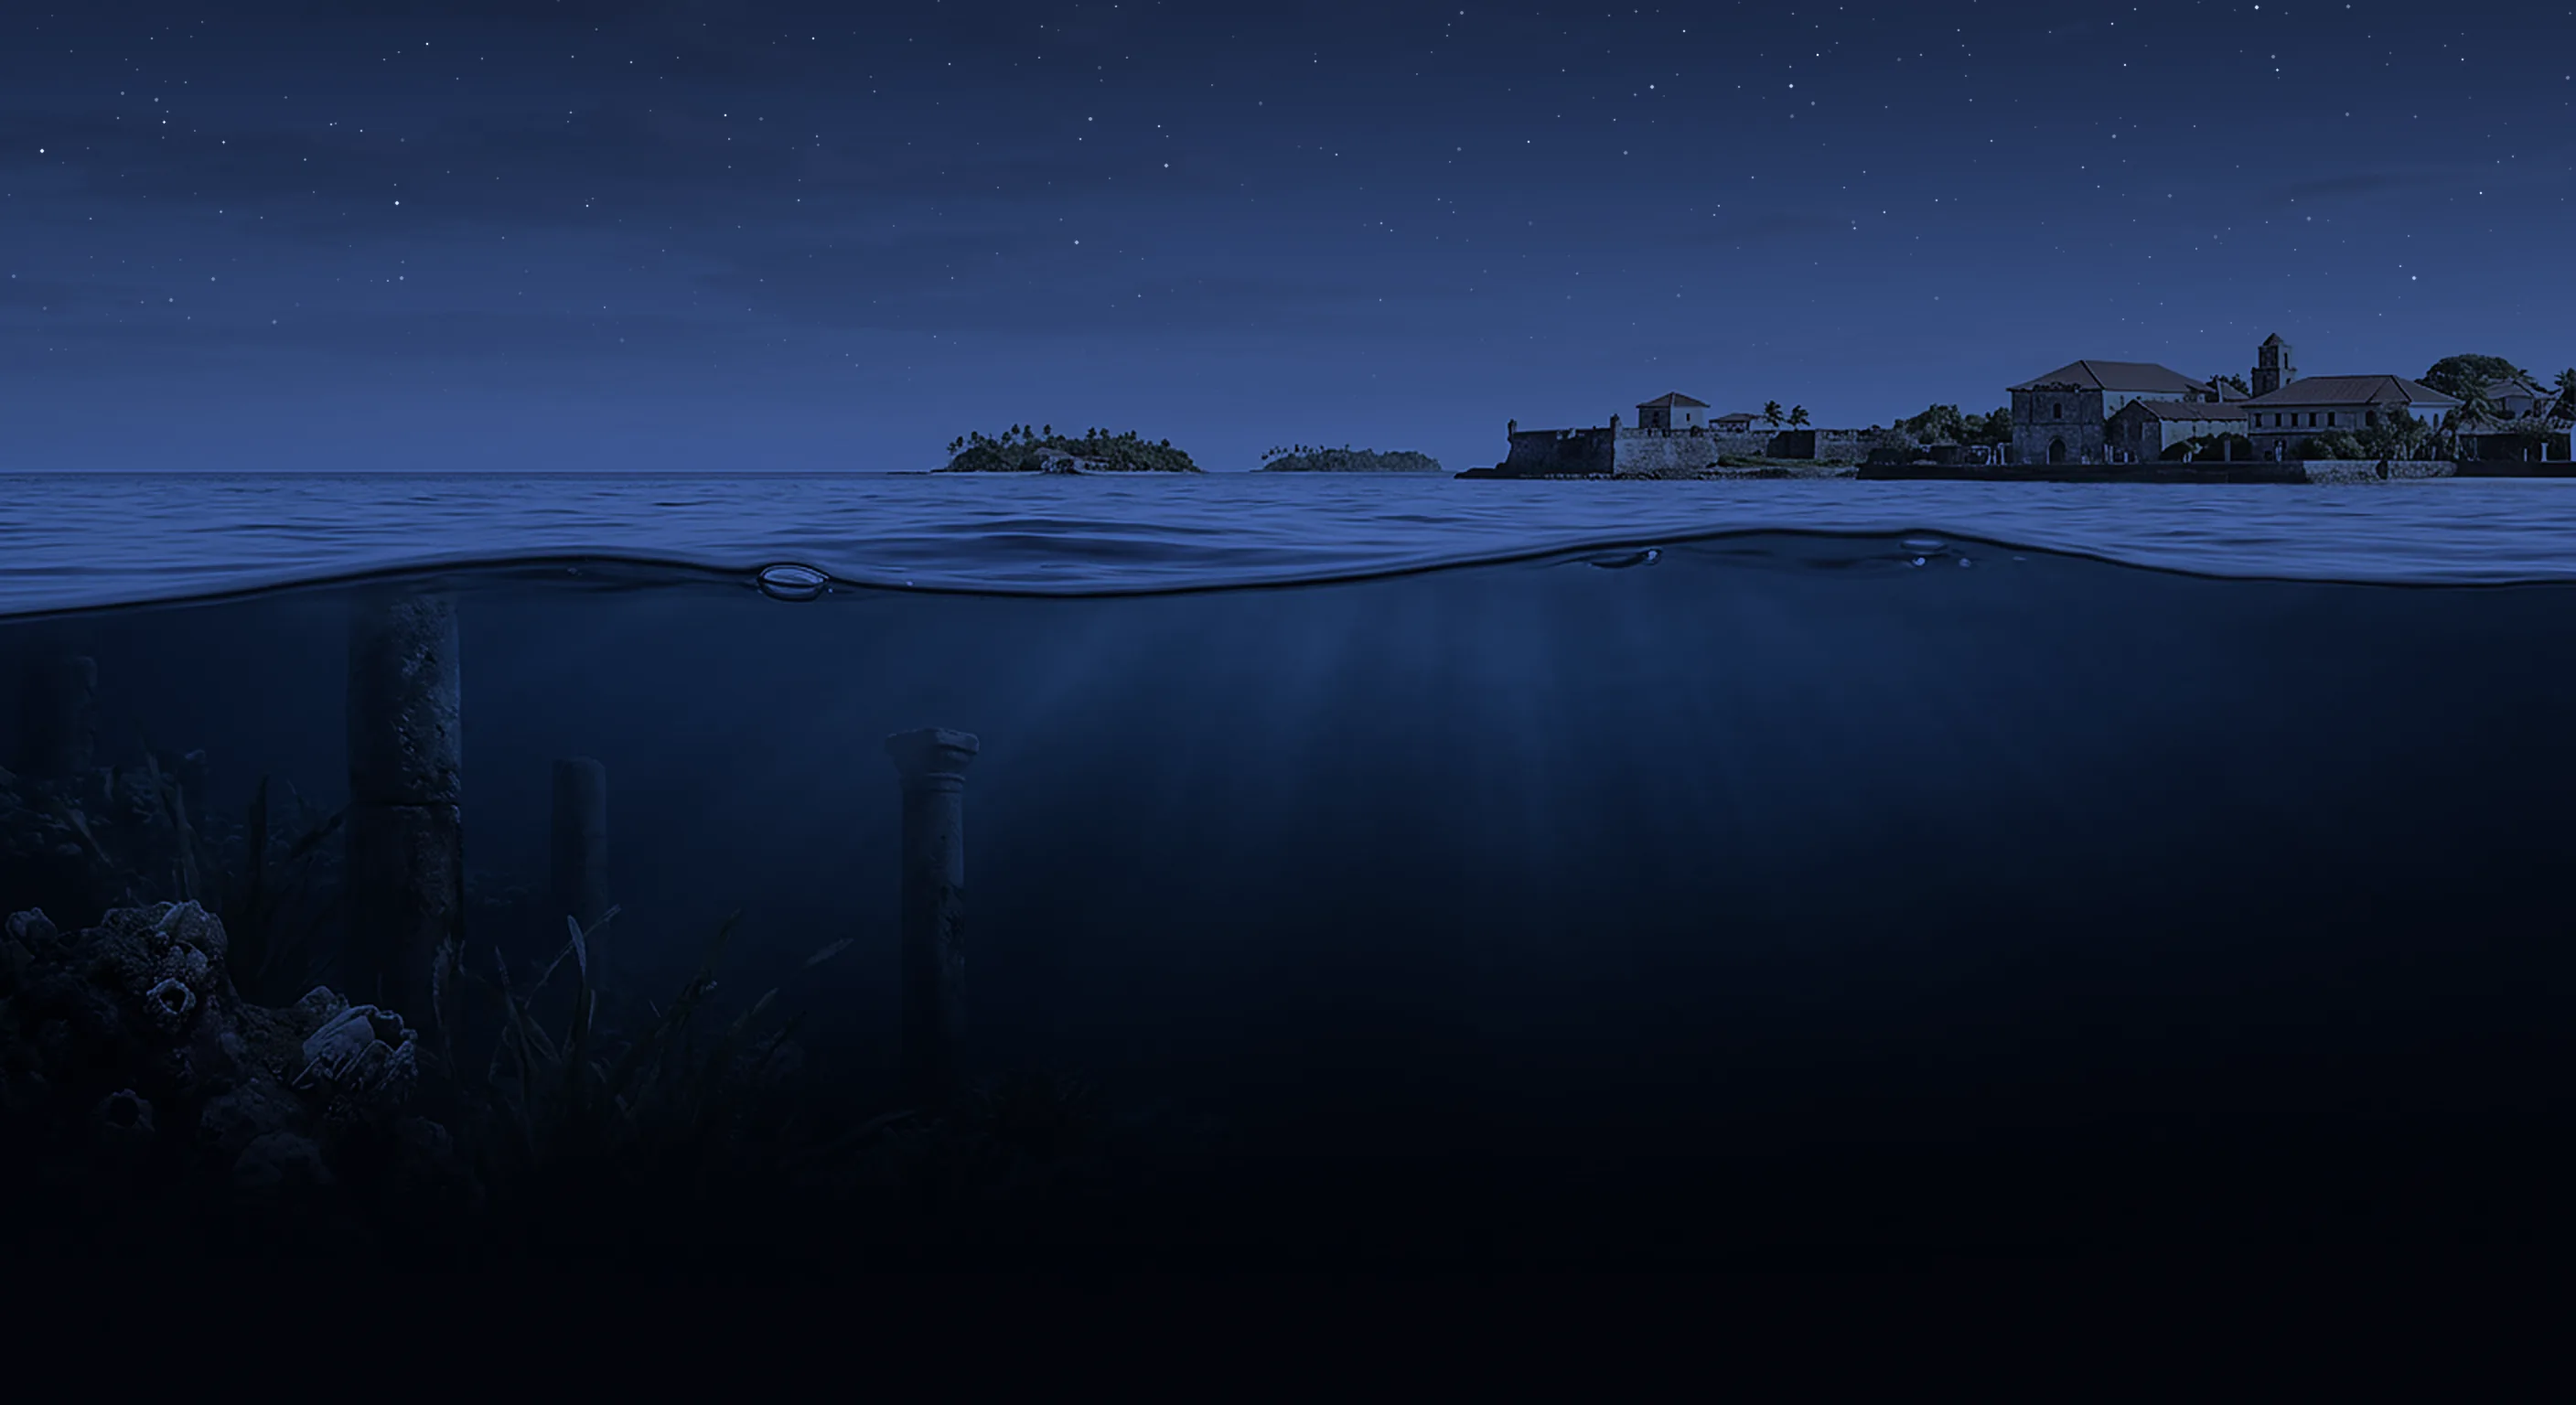
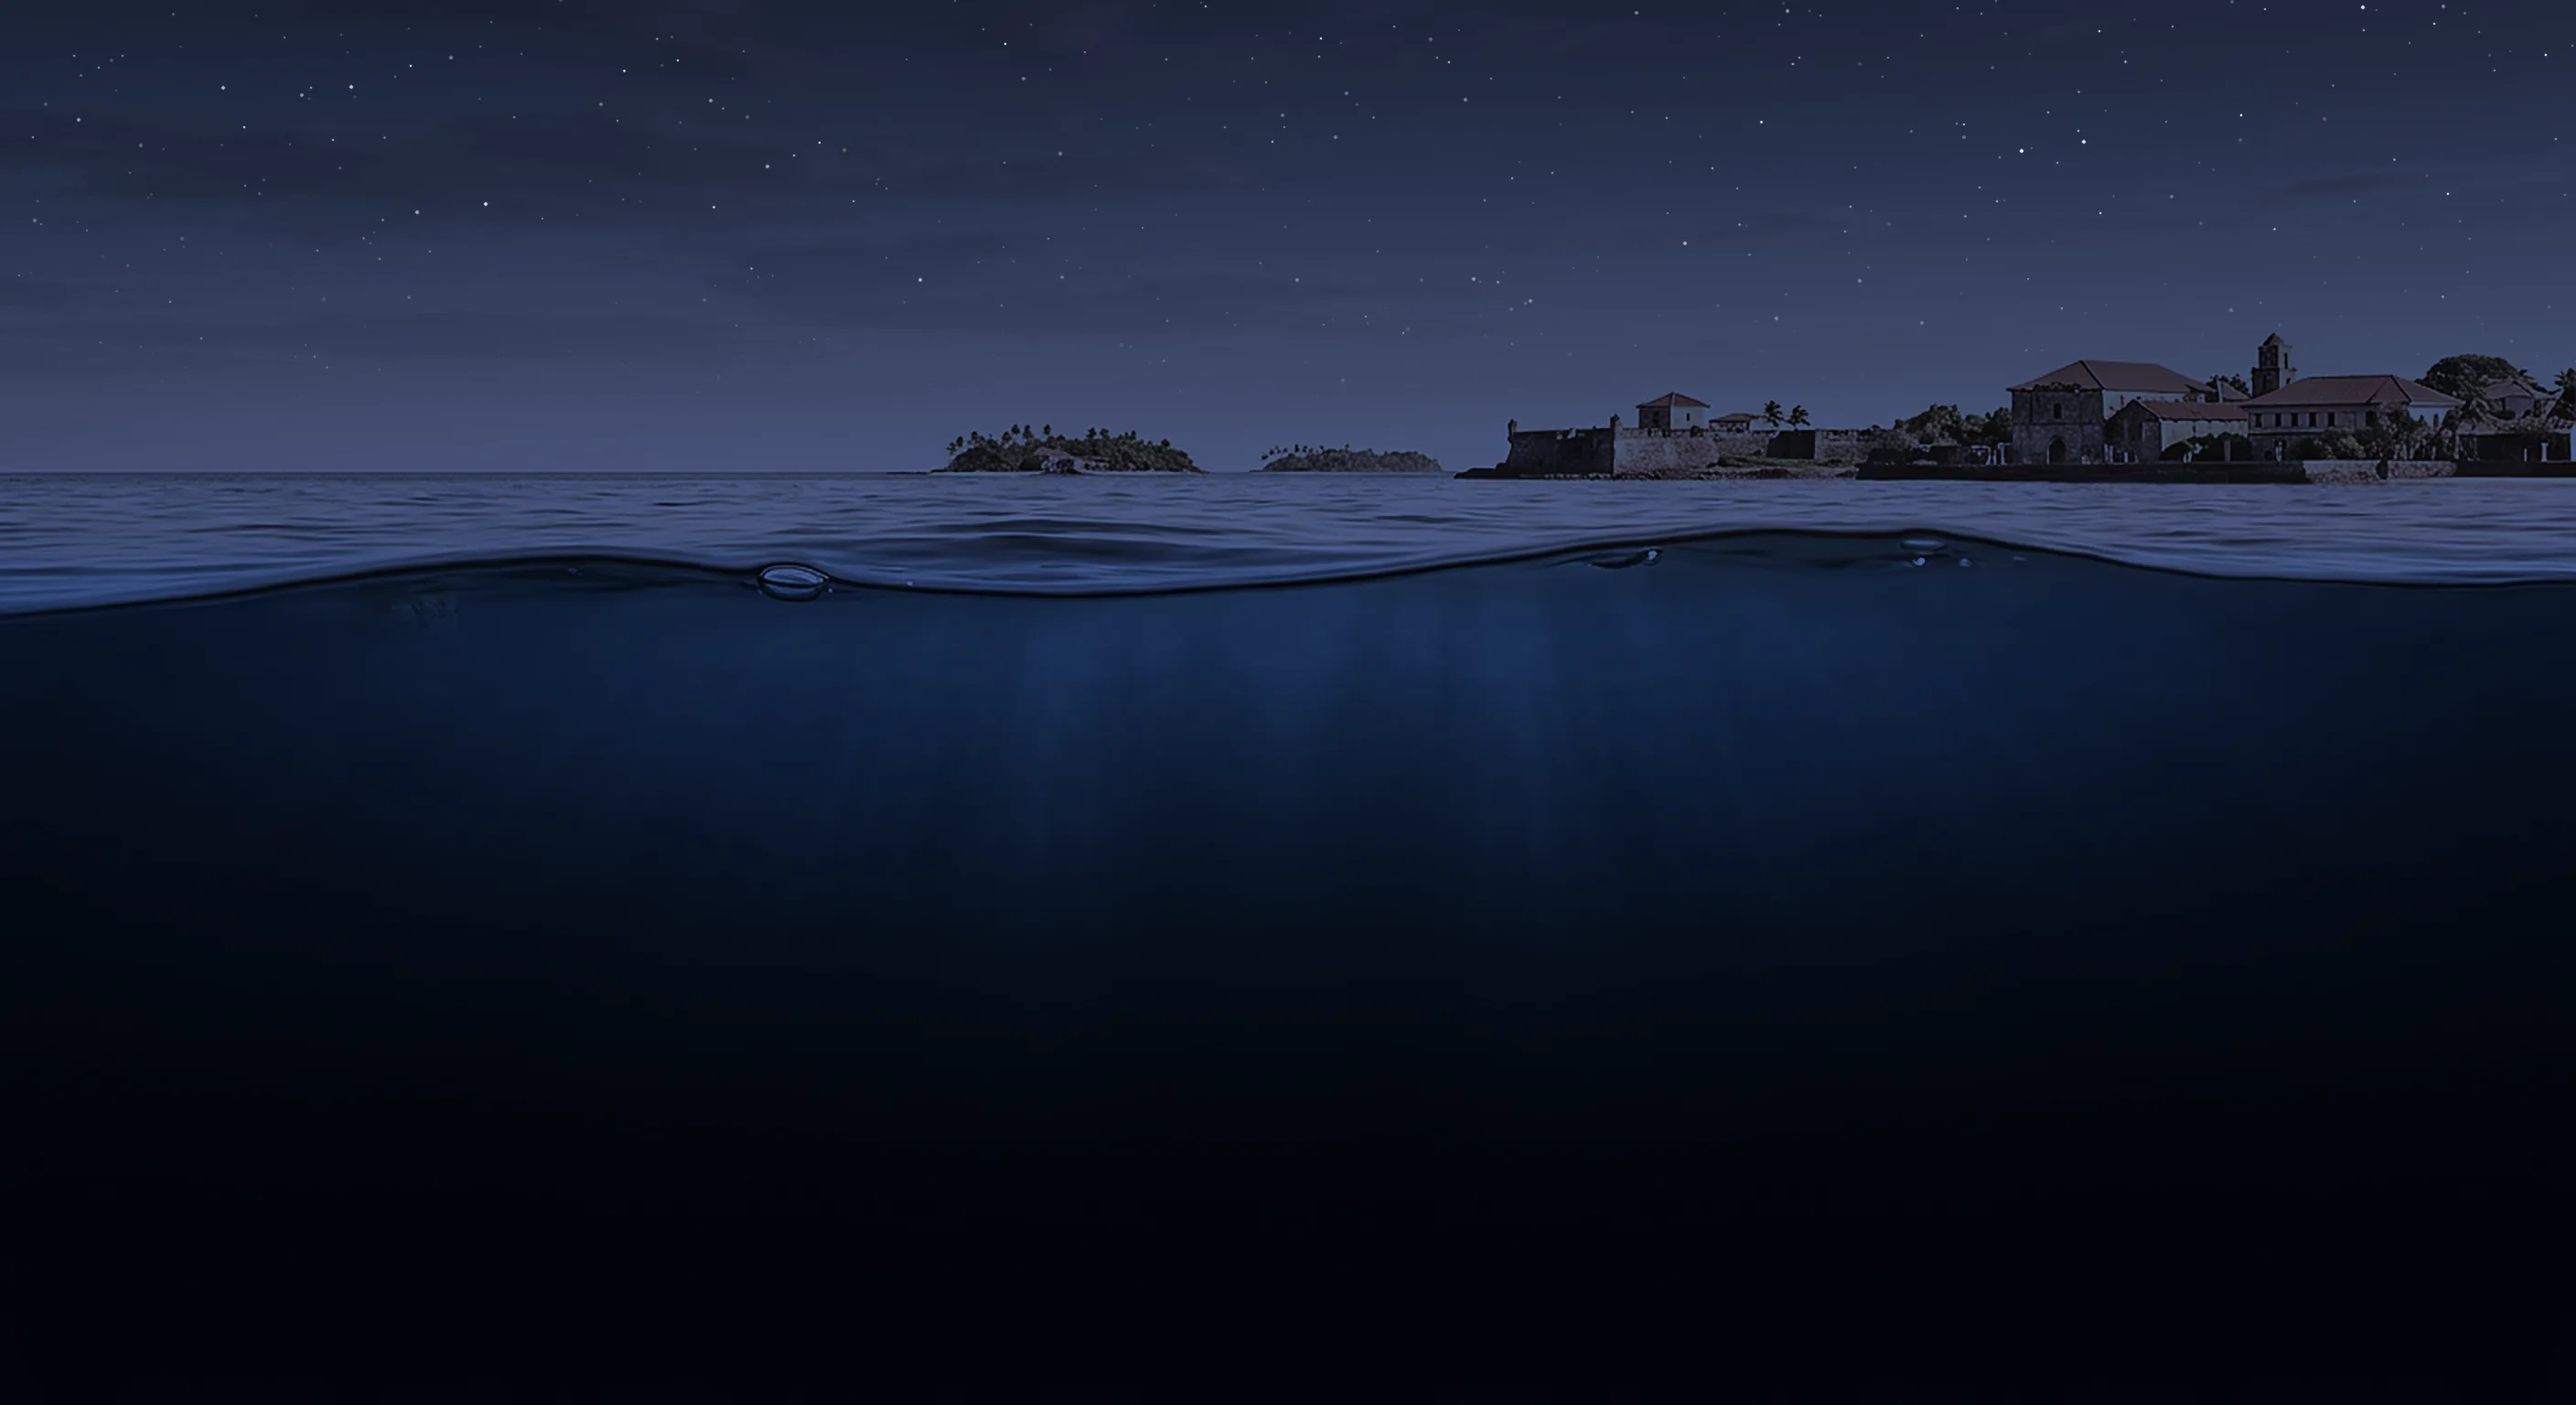
Reorder scenes into one day and fix About readability
The scenes now follow a single day: morning at Mayon, the terraces, afternoon in Vigan, sunset over Manila Bay, then the dive. The bay moved to just before the waterline, which is now in evening light and no longer shows a second seafloor. The About text sits on a panel so the map behind it does not get in the way.

diff --git a/index.html b/index.html
@@ -29,6 +29,7 @@
   --cream: #FBF3E4;
   --deep: #193456;
   --sea-top: #06182A;
+  --dusk: #EFA57C;
   --script: 'Kaushan Script', cursive;
 }
 :root[data-theme="dark"] {
@@ -41,6 +42,7 @@
   --accent: #F0C04A;
   --accent2: #5CC9BB;
   --sea-top: #030C18;
+  --dusk: #0A1124;
 }
 
 html { scroll-behavior: smooth; }
@@ -225,16 +227,17 @@ section { position: relative; }
 /* ABOUT */
 .about { display: grid; grid-template-columns: 250px 1fr; gap: 3.5rem; align-items: center; }
 .photo { width: 250px; height: 250px; border-radius: 50%; object-fit: cover; border: 5px solid var(--card); box-shadow: 0 0 0 3px var(--gold), 12px 12px 0 var(--coral); display: block; }
+.about > div { padding: 1.5rem 1.7rem; border: 1.5px solid var(--line); border-radius: 8px; background: color-mix(in srgb, var(--card) 90%, transparent); -webkit-backdrop-filter: blur(8px); backdrop-filter: blur(8px); box-shadow: 0 10px 30px rgba(29,56,99,0.08); }
 .bio p + p { margin-top: 0.9rem; }
-.bio { color: var(--ink2); font-size: 1rem; }
+.bio { color: var(--ink); font-size: 1rem; font-weight: 500; }
 .bio strong { color: var(--ink); font-weight: 600; }
 .facts { display: flex; flex-wrap: wrap; gap: 0.6rem; margin-top: 1.4rem; }
 .fact { font-size: 0.8rem; font-weight: 600; padding: 0.35rem 0.85rem; border: 1.5px solid var(--line); border-radius: 999px; background: var(--card); }
 .fact.open { border-color: var(--teal); color: var(--accent2); }
 .stats { display: grid; grid-template-columns: repeat(3, 1fr); gap: 1rem; margin-top: 3rem; text-align: center; }
-.stat { padding: 1.3rem 1rem; background: var(--card); border: 1.5px solid var(--line); border-radius: 6px; }
+.stat { padding: 1.3rem 1rem; background: color-mix(in srgb, var(--card) 92%, transparent); -webkit-backdrop-filter: blur(8px); backdrop-filter: blur(8px); border: 1.5px solid var(--line); border-radius: 6px; }
 .stat b { display: block; font-family: var(--script); font-weight: 400; font-size: 2.6rem; line-height: 1.1; color: var(--accent); }
-.stat span { font-size: 0.82rem; font-weight: 600; color: var(--ink3); }
+.stat span { font-size: 0.82rem; font-weight: 600; color: var(--ink2); }
 
 /* TECHNOLOGY */
 .tech { position: relative; display: grid; grid-template-columns: repeat(2, 1fr); gap: 1.2rem; }
@@ -277,9 +280,13 @@ section { position: relative; }
 .band::after { content: ''; position: absolute; inset: -1px 0; pointer-events: none; background: linear-gradient(180deg, var(--bg) 0%, transparent 16%, transparent 88%, var(--bg) 100%); transition: background 0.4s; }
 .bay-moon { position: absolute; left: 60%; top: 10%; width: clamp(38px, 5vw, 84px); filter: drop-shadow(0 0 14px rgba(226,234,255,0.7)) drop-shadow(0 0 44px rgba(170,190,255,0.4)); opacity: 0; transform: translateY(120%); transition: transform 2.2s cubic-bezier(0.25, 0.6, 0.3, 1), opacity 1.2s ease; }
 [data-theme="dark"] .bay-moon { opacity: 1; transform: none; transition-delay: 0.5s; }
-.waterline { aspect-ratio: 2816 / 1536; background: var(--sea-top); margin-top: 2rem; }
-.waterline .day, .waterline .night { top: -1.5%; height: 103%; object-position: 50% 50%; transform: none; animation: swell 7s ease-in-out infinite alternate; }
-.waterline::after { background: linear-gradient(180deg, var(--bg) 0%, transparent 13%, transparent 78%, var(--sea-top) 100%); }
+.band .cap { position: absolute; z-index: 2; left: clamp(1.25rem, 5vw, 4rem); bottom: 17%; color: #fff; font-family: var(--script); font-size: clamp(1.3rem, 2.6vw, 2rem); line-height: 1.2; text-shadow: 0 2px 16px rgba(4,12,30,0.8); }
+.band .cap small { display: block; font: 600 0.78rem 'Montserrat', sans-serif; letter-spacing: 0.08em; text-transform: uppercase; opacity: 0.92; }
+.bay { margin-top: 3rem; }
+.bay::after { background: linear-gradient(180deg, var(--bg) 0%, transparent 16%, transparent 80%, var(--dusk) 100%); transition: none; }
+.waterline { aspect-ratio: 2816 / 1250; background: var(--sea-top); }
+.waterline .day, .waterline .night { top: -1.5%; height: 103%; object-position: 50% 22%; transform: none; animation: swell 7s ease-in-out infinite alternate; }
+.waterline::after { background: linear-gradient(180deg, var(--dusk) 0%, transparent 12%, transparent 76%, var(--sea-top) 100%); transition: none; }
 .waterline .rays { position: absolute; left: 0; right: 0; top: 40%; bottom: 0; mix-blend-mode: screen; background: radial-gradient(45% 80% at 55% 0%, rgba(150,225,255,0.28), transparent 70%); animation: shimmer 7s ease-in-out infinite alternate; }
 @keyframes swell { from { transform: translateY(0); } to { transform: translateY(-1.1%); } }
 
@@ -471,12 +478,6 @@ footer small { font-size: 0.78rem; font-weight: 500; opacity: 0.8; }
   </div>
 </section>
 
-<div class="band bay" data-parallax aria-hidden="true">
-  <img class="day" src="assets/bay-day.webp" alt="" loading="lazy" width="2920" height="1238">
-  <img class="night" src="assets/bay-night.webp" alt="" loading="lazy" width="2920" height="1238">
-  <img class="bay-moon" src="assets/moon.webp" alt="" loading="lazy" width="384" height="384">
-</div>
-
 <section id="experience">
   <div class="sec-bg" aria-hidden="true"><i class="day"></i><i class="night"></i><i class="fog"></i></div>
   <div class="wrap">
@@ -513,6 +514,7 @@ footer small { font-size: 0.78rem; font-weight: 500; opacity: 0.8; }
 <div class="band street" data-parallax aria-hidden="true">
   <img class="day" src="assets/street-day.webp" alt="" loading="lazy" width="2920" height="1238">
   <img class="night" src="assets/street-night.webp" alt="" loading="lazy" width="2920" height="1238">
+  <span class="cap">Hapon <small>Afternoon in old Vigan</small></span>
 </div>
 
 <section id="projects">
@@ -586,6 +588,12 @@ footer small { font-size: 0.78rem; font-weight: 500; opacity: 0.8; }
   </div>
 </section>
 
+<div class="band bay" data-parallax aria-hidden="true">
+  <img class="day" src="assets/bay-day.webp" alt="" loading="lazy" width="2920" height="1238">
+  <img class="night" src="assets/bay-night.webp" alt="" loading="lazy" width="2920" height="1238">
+  <span class="cap">Takipsilim <small>Sunset over Manila Bay</small></span>
+  <img class="bay-moon" src="assets/moon.webp" alt="" loading="lazy" width="384" height="384">
+</div>
 <div class="band waterline" aria-hidden="true">
   <img class="day" src="assets/waterline-day.webp" alt="" loading="lazy" width="2816" height="1536">
   <img class="night" src="assets/waterline-night.webp" alt="" loading="lazy" width="2816" height="1536">
